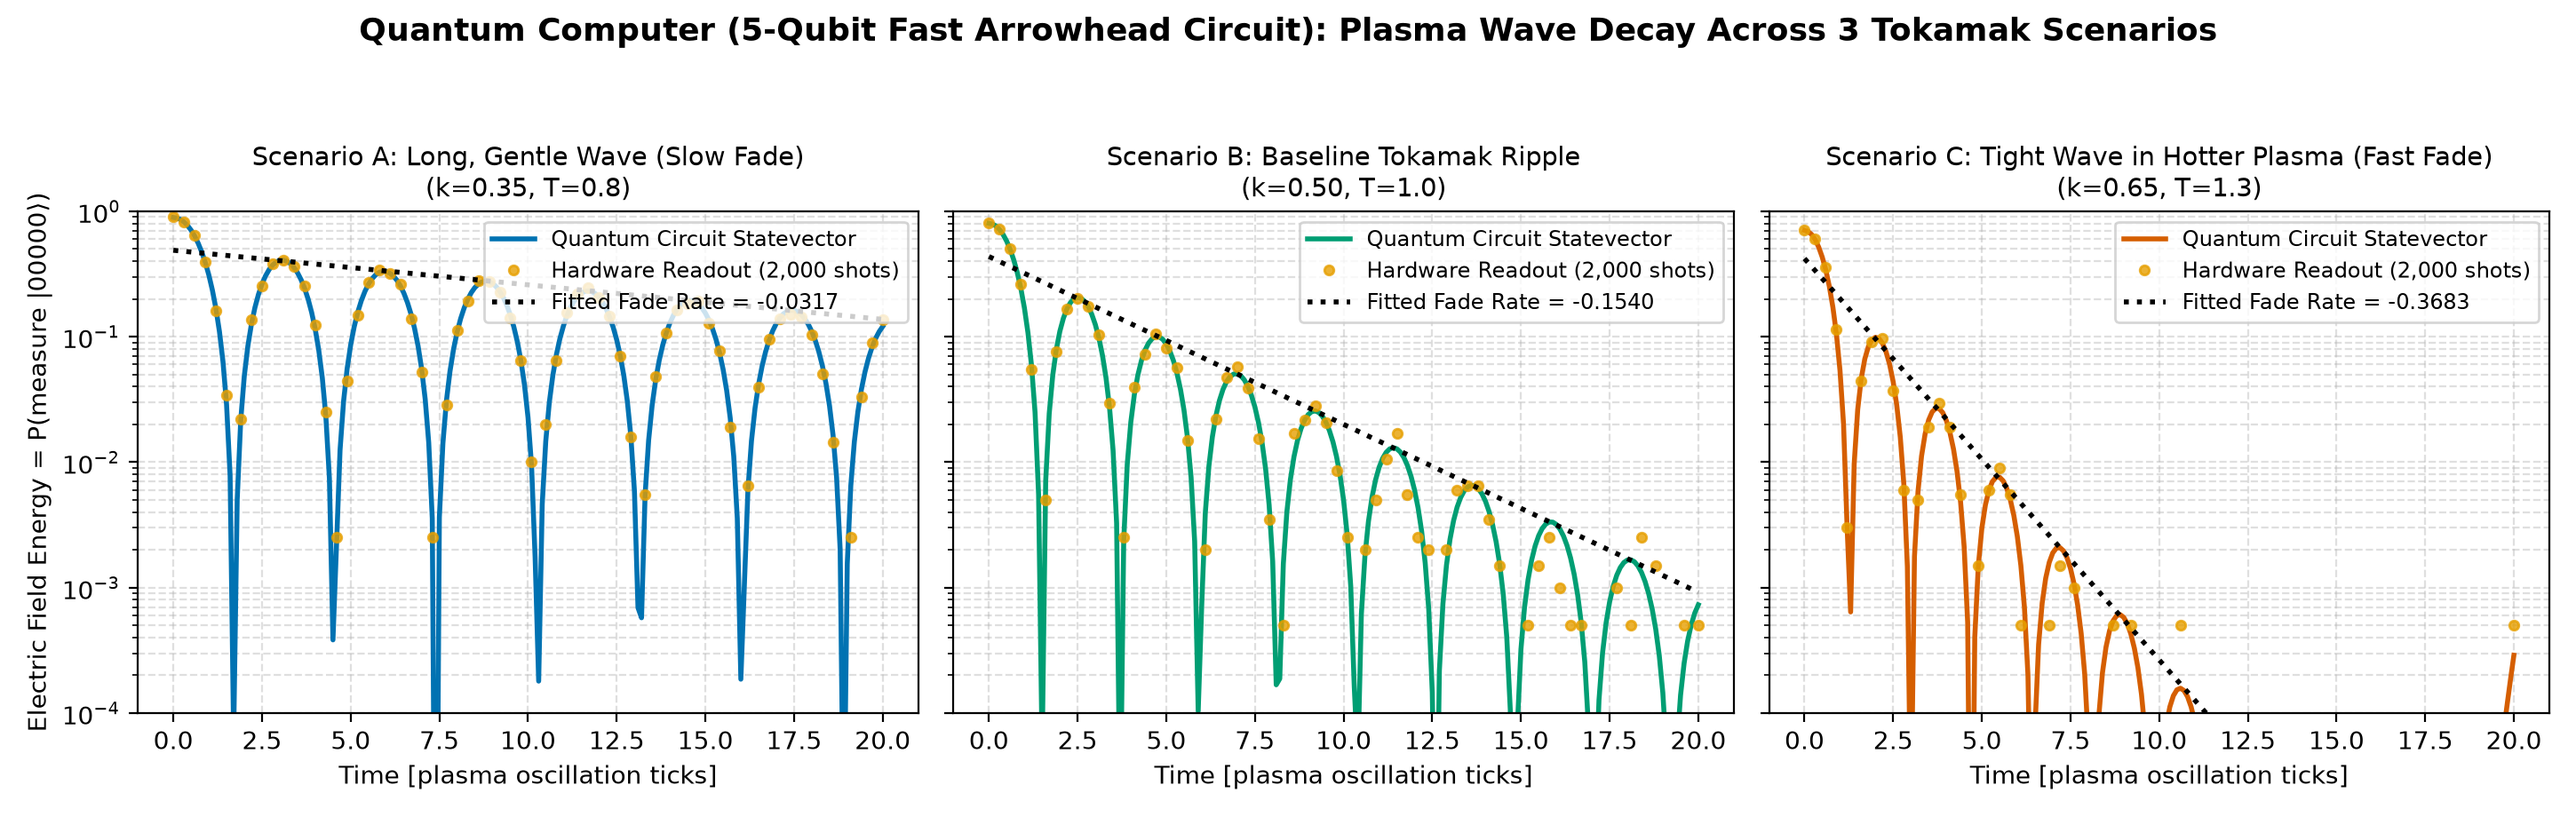
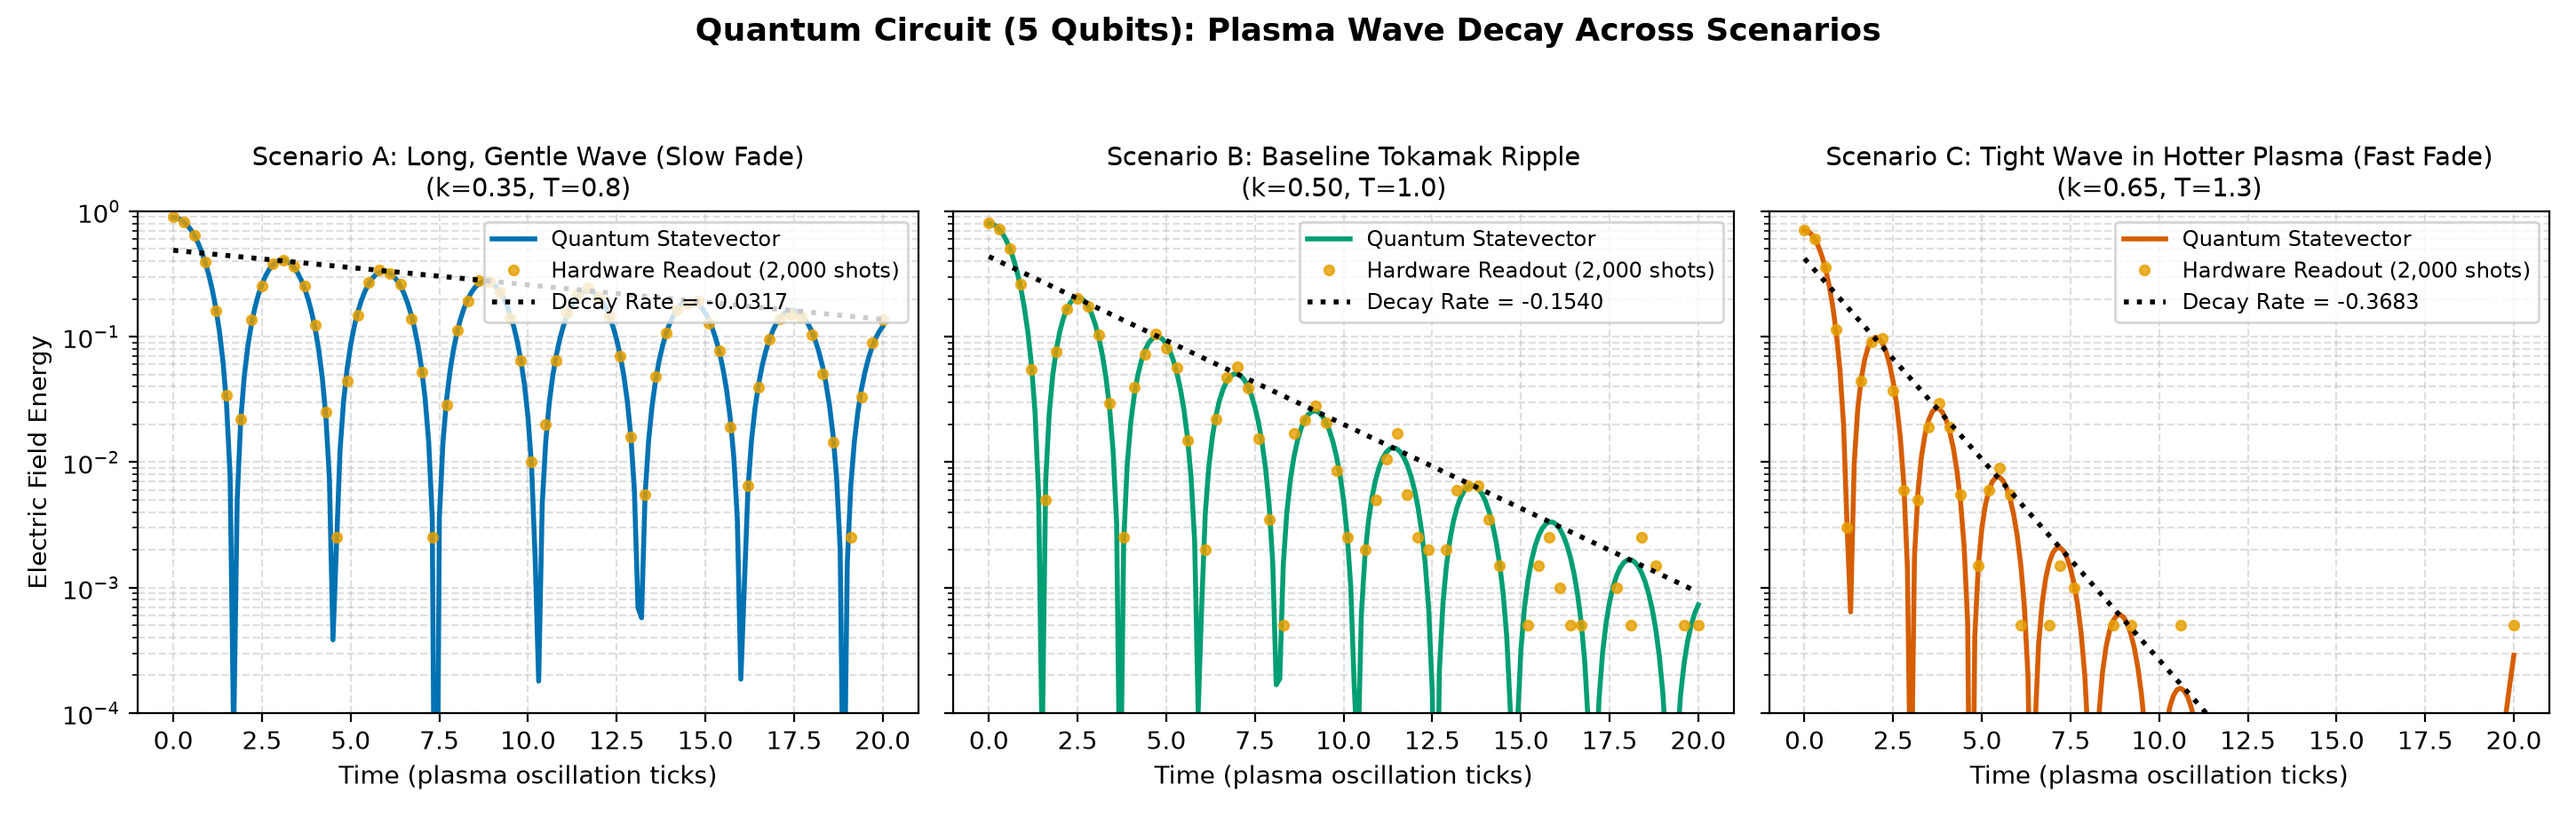
Updated graph headings and labels

diff --git a/gemini_imp/plotting.py b/gemini_imp/plotting.py
@@ -68,7 +68,7 @@ def plot_separate_scenario_graphs(
     # --- GRAPH 1A: QUANTUM CIRCUIT SCENARIOS ---
     fig_q, axes_q = plt.subplots(1, 3, figsize=(14.5, 4.6), sharey=True)
     fig_q.suptitle(
-        "Quantum Computer (5-Qubit Fast Arrowhead Circuit): Plasma Wave Decay Across 3 Tokamak Scenarios",
+        "Quantum Circuit (5 Qubits): Plasma Wave Decay Across Scenarios",
         fontsize=13,
         fontweight="bold",
     )
@@ -83,7 +83,7 @@ def plot_separate_scenario_graphs(
             q_res["energy"],
             color=color,
             linewidth=2.0,
-            label="Quantum Circuit Statevector",
+            label="Quantum Statevector",
         )
         shot_mask = q_res["shot_energy"] > 0
         ax.semilogy(
@@ -101,13 +101,13 @@ def plot_separate_scenario_graphs(
             ":",
             color="black",
             linewidth=2.0,
-            label=f"Fitted Fade Rate = {item['q_rate']:.4f}",
+            label=f"Decay Rate = {item['q_rate']:.4f}",
         )
 
         ax.set_title(f"{scen['name']}\n({scen['short_label'].split('(')[1].rstrip(')')})", fontsize=10.5)
-        ax.set_xlabel("Time [plasma oscillation ticks]")
+        ax.set_xlabel("Time (plasma oscillation ticks)")
         if idx == 0:
-            ax.set_ylabel("Electric Field Energy = P(measure |00000⟩)")
+            ax.set_ylabel("Electric Field Energy")
         ax.set_ylim(bottom=1e-4, top=1.0)
         ax.grid(True, which="both", linestyle="--", alpha=0.4)
         ax.legend(loc="upper right", fontsize=8.5)
@@ -120,7 +120,7 @@ def plot_separate_scenario_graphs(
     # --- GRAPH 1B: CONVENTIONAL ALGORITHM SCENARIOS ---
     fig_c, axes_c = plt.subplots(1, 3, figsize=(14.5, 4.6), sharey=True)
     fig_c.suptitle(
-        "Conventional Computer (Sparse SciPy RK45 Solver): Plasma Wave Decay Across 3 Tokamak Scenarios",
+        "Classical Computer (Sparse RK45): Plasma Wave Decay Across Scenarios",
         fontsize=13,
         fontweight="bold",
     )
@@ -135,7 +135,7 @@ def plot_separate_scenario_graphs(
             c_res["energy"],
             color=color,
             linewidth=2.0,
-            label="Classical Sparse RK45 Solver",
+            label="Classical RK45 Solver",
         )
         ax.semilogy(
             c_res["times"],
@@ -143,13 +143,13 @@ def plot_separate_scenario_graphs(
             ":",
             color="black",
             linewidth=2.0,
-            label=f"Fitted Fade Rate = {item['c_rate']:.4f}",
+            label=f"Decay Rate = {item['c_rate']:.4f}",
         )
 
         ax.set_title(f"{scen['name']}\n({scen['short_label'].split('(')[1].rstrip(')')})", fontsize=10.5)
-        ax.set_xlabel("Time [plasma oscillation ticks]")
+        ax.set_xlabel("Time (plasma oscillation ticks)")
         if idx == 0:
-            ax.set_ylabel("Electric Field Energy = |state[0]|²")
+            ax.set_ylabel("Electric Field Energy")
         ax.set_ylim(bottom=1e-4, top=1.0)
         ax.grid(True, which="both", linestyle="--", alpha=0.4)
         ax.legend(loc="upper right", fontsize=8.5)
@@ -181,7 +181,7 @@ def plot_figure_1_quantum_vs_classical(
         c_res["energy"],
         color="black",
         linewidth=2.0,
-        label="Classical Computer (Sparse SciPy RK45 Solver)",
+        label="Classical (Sparse RK45)",
     )
     ax.semilogy(
         q_res["times"],
@@ -189,7 +189,7 @@ def plot_figure_1_quantum_vs_classical(
         "--",
         color="#0072B2",
         linewidth=2.0,
-        label="Quantum Circuit (5-Qubit Fast Arrowhead Trotter)",
+        label="Quantum Circuit (5 Qubits)",
     )
 
     shot_mask = q_res["shot_energy"] > 0
@@ -200,7 +200,7 @@ def plot_figure_1_quantum_vs_classical(
         color="#E69F00",
         markersize=4,
         alpha=0.8,
-        label="Quantum Hardware Readout (2,000 shots)",
+        label="Hardware Readout (2,000 shots)",
     )
 
     ax.semilogy(
@@ -209,15 +209,15 @@ def plot_figure_1_quantum_vs_classical(
         ":",
         color="#D55E00",
         linewidth=2.0,
-        label=f"Fitted Decay Slope (rate = {damping_rate:.4f})",
+        label=f"Decay Envelope (rate = {damping_rate:.4f})",
     )
 
     ax.set_title(
-        f"Baseline Wave Energy Decay: Quantum vs. Classical "
-        f"(k={config['wavenumber']}, T={config['temperature']}, {config['n_qubits']} Qubits)"
+        f"Wave Energy Decay: Quantum vs. Classical "
+        f"(k={config['wavenumber']}, T={config['temperature']})"
     )
-    ax.set_xlabel("Time [plasma oscillation ticks]")
-    ax.set_ylabel("Electric Field Energy = P(measure |00000⟩)")
+    ax.set_xlabel("Time (plasma oscillation ticks)")
+    ax.set_ylabel("Electric Field Energy")
     ax.set_ylim(bottom=1e-4, top=1.0)
     ax.grid(True, which="both", linestyle="--", alpha=0.4)
     ax.legend(loc="upper right")
@@ -247,11 +247,11 @@ def plot_figure_2_factors_comparison() -> Path:
         q_rates_k.append(abs(measure_damping_rate(q_sim["times"], q_sim["energy"], cfg)[0]))
         c_rates_k.append(abs(measure_damping_rate(c_sim["times"], c_sim["energy"], cfg)[0]))
 
-    ax_k.plot(wavenumbers, c_rates_k, "s-", color="black", label="Classical Sparse Solver")
-    ax_k.plot(wavenumbers, q_rates_k, "o--", color="#0072B2", label="Quantum Fast Arrowhead (5 Qubits)")
-    ax_k.set_title("Factor 1: Effect of Wavenumber (k)")
-    ax_k.set_xlabel("Wavenumber k  (Higher = Shorter Wavelength)")
-    ax_k.set_ylabel("Wave Fade Speed |damping rate|")
+    ax_k.plot(wavenumbers, c_rates_k, "s-", color="black", label="Classical (Sparse RK45)")
+    ax_k.plot(wavenumbers, q_rates_k, "o--", color="#0072B2", label="Quantum (5 Qubits)")
+    ax_k.set_title("Damping Rate vs. Wavenumber (k)")
+    ax_k.set_xlabel("Wavenumber k (Shorter Wavelength →)")
+    ax_k.set_ylabel("Damping Rate |γ|")
     ax_k.grid(True, linestyle="--", alpha=0.4)
     ax_k.legend()
 
@@ -265,11 +265,11 @@ def plot_figure_2_factors_comparison() -> Path:
         q_rates_t.append(abs(measure_damping_rate(q_sim["times"], q_sim["energy"], cfg)[0]))
         c_rates_t.append(abs(measure_damping_rate(c_sim["times"], c_sim["energy"], cfg)[0]))
 
-    ax_t.plot(temperatures, c_rates_t, "s-", color="black", label="Classical Sparse Solver")
-    ax_t.plot(temperatures, q_rates_t, "o--", color="#D55E00", label="Quantum Fast Arrowhead (5 Qubits)")
-    ax_t.set_title("Factor 2: Effect of Electron Temperature (T)")
-    ax_t.set_xlabel("Plasma Temperature T  (Higher = Faster Electrons)")
-    ax_t.set_ylabel("Wave Fade Speed |damping rate|")
+    ax_t.plot(temperatures, c_rates_t, "s-", color="black", label="Classical (Sparse RK45)")
+    ax_t.plot(temperatures, q_rates_t, "o--", color="#D55E00", label="Quantum (5 Qubits)")
+    ax_t.set_title("Damping Rate vs. Temperature (T)")
+    ax_t.set_xlabel("Temperature T (Hotter Electrons →)")
+    ax_t.set_ylabel("Damping Rate |γ|")
     ax_t.grid(True, linestyle="--", alpha=0.4)
     ax_t.legend()
 
